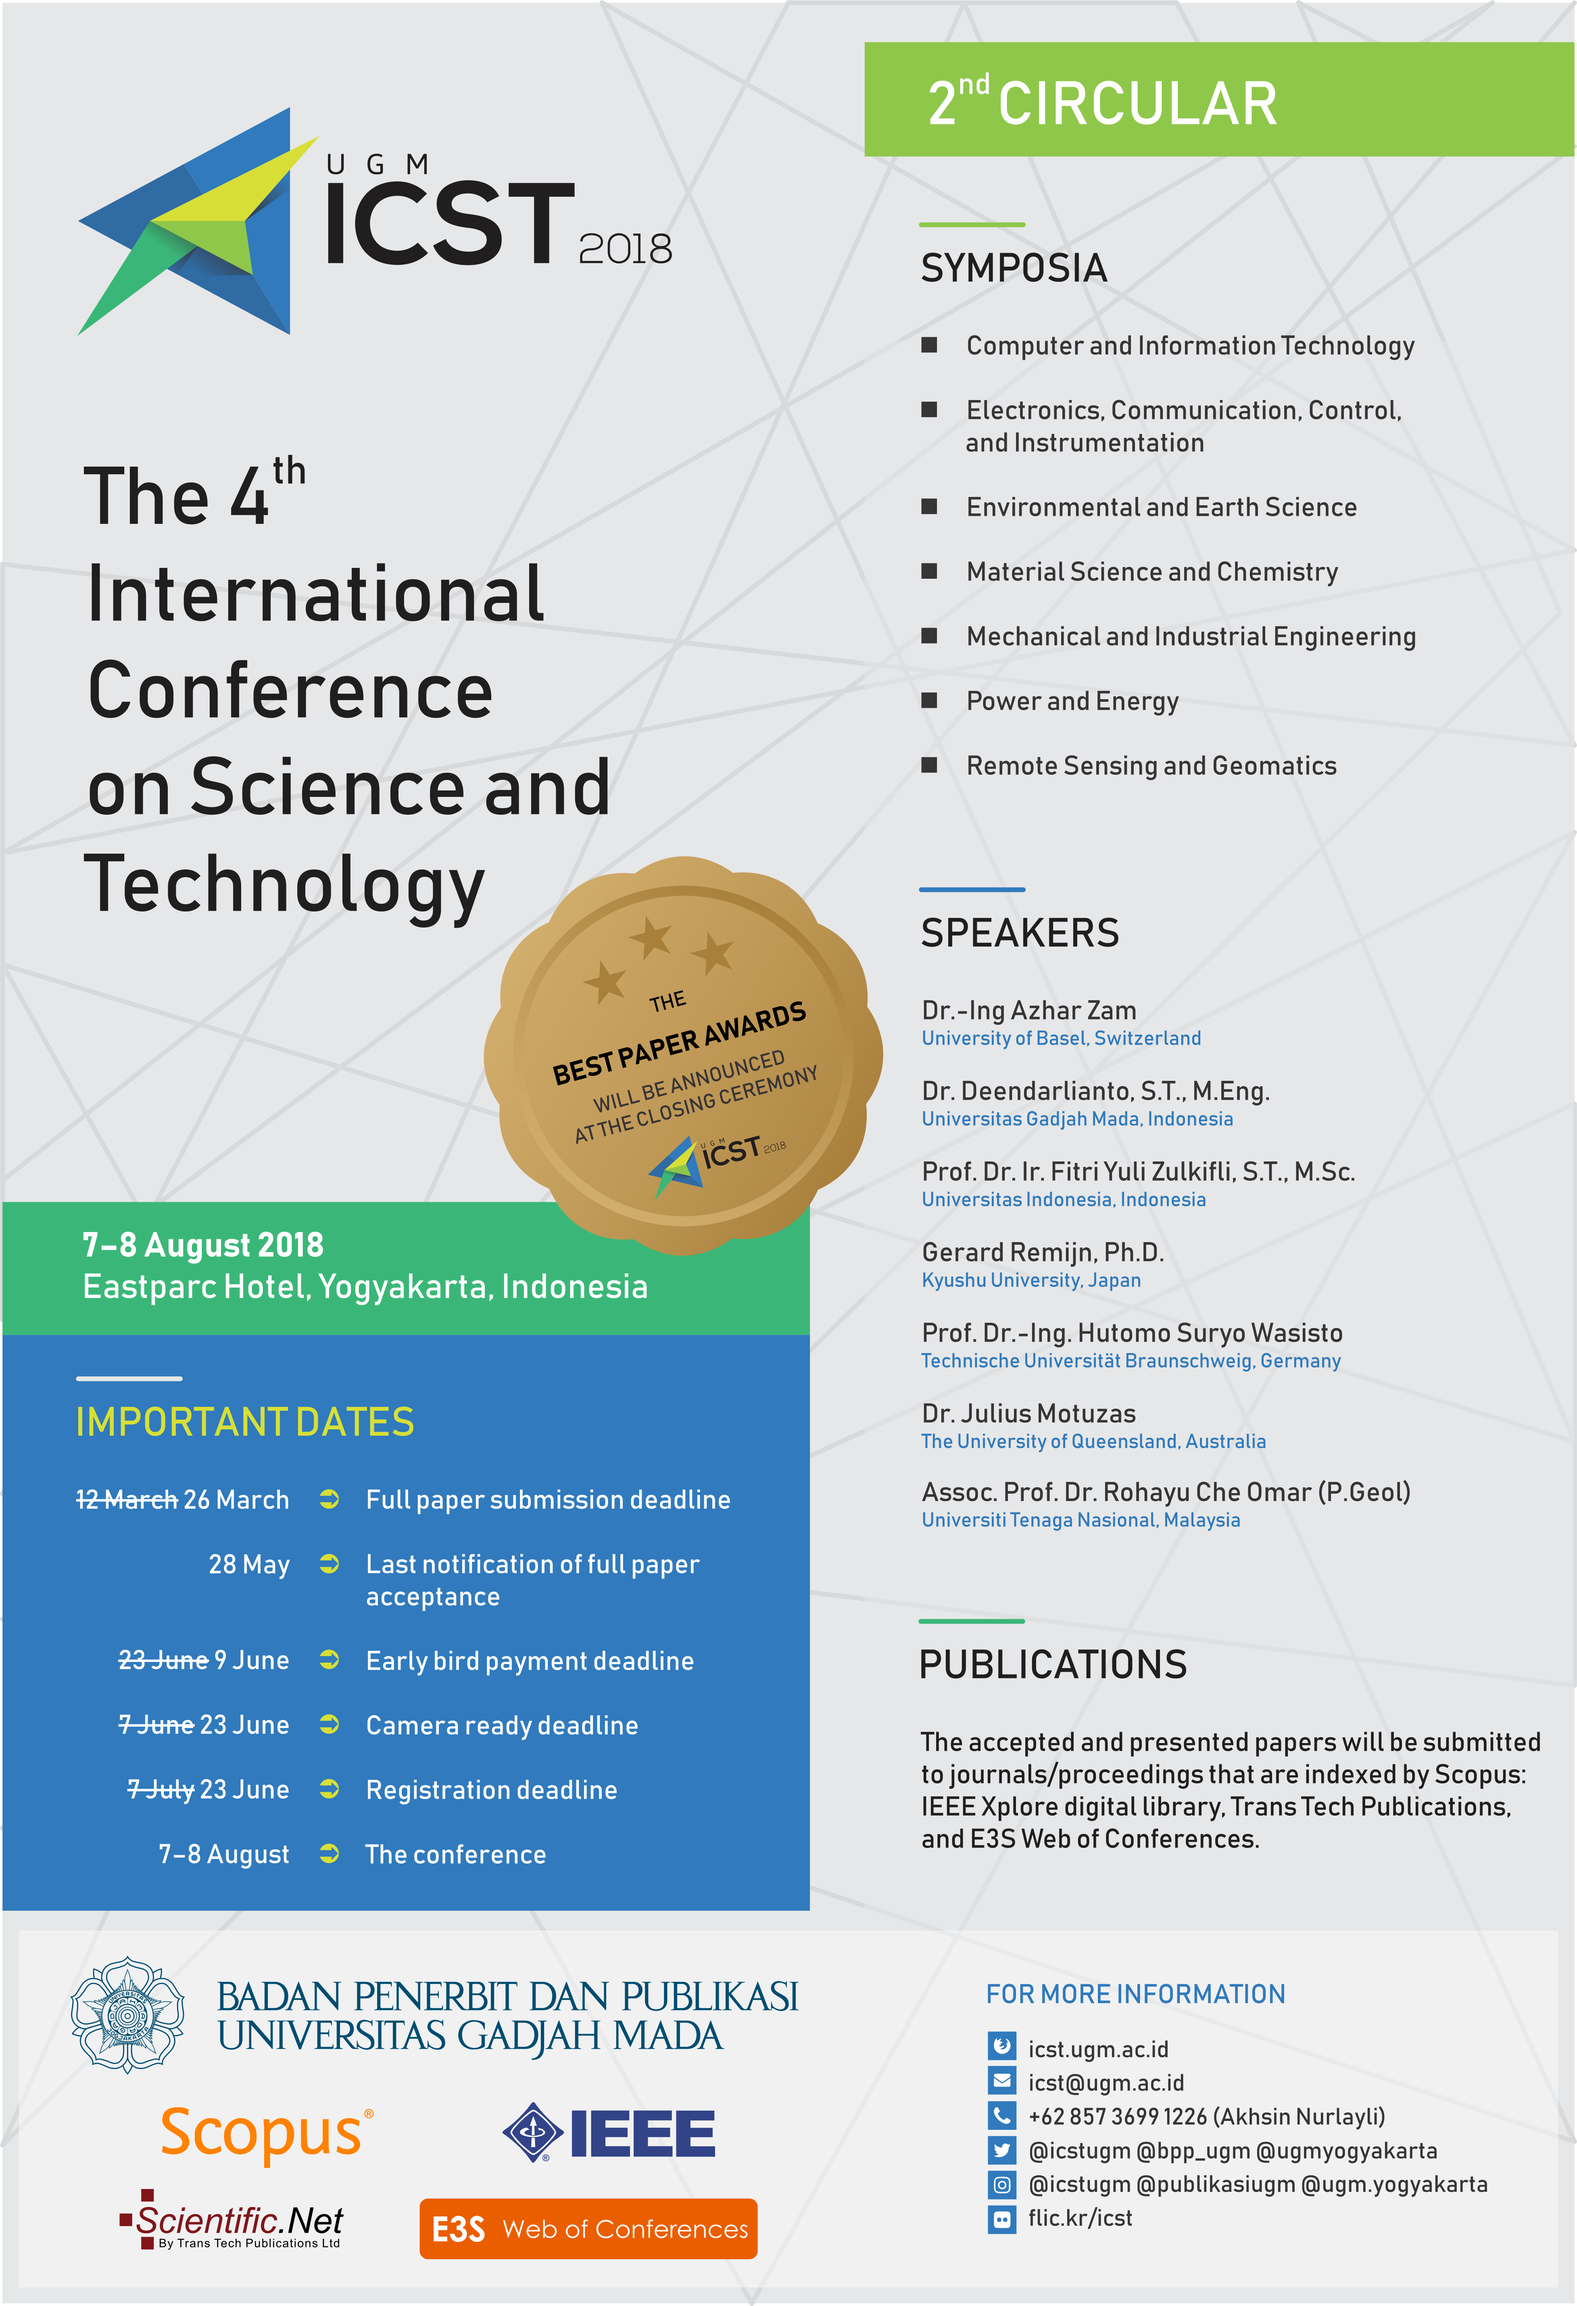
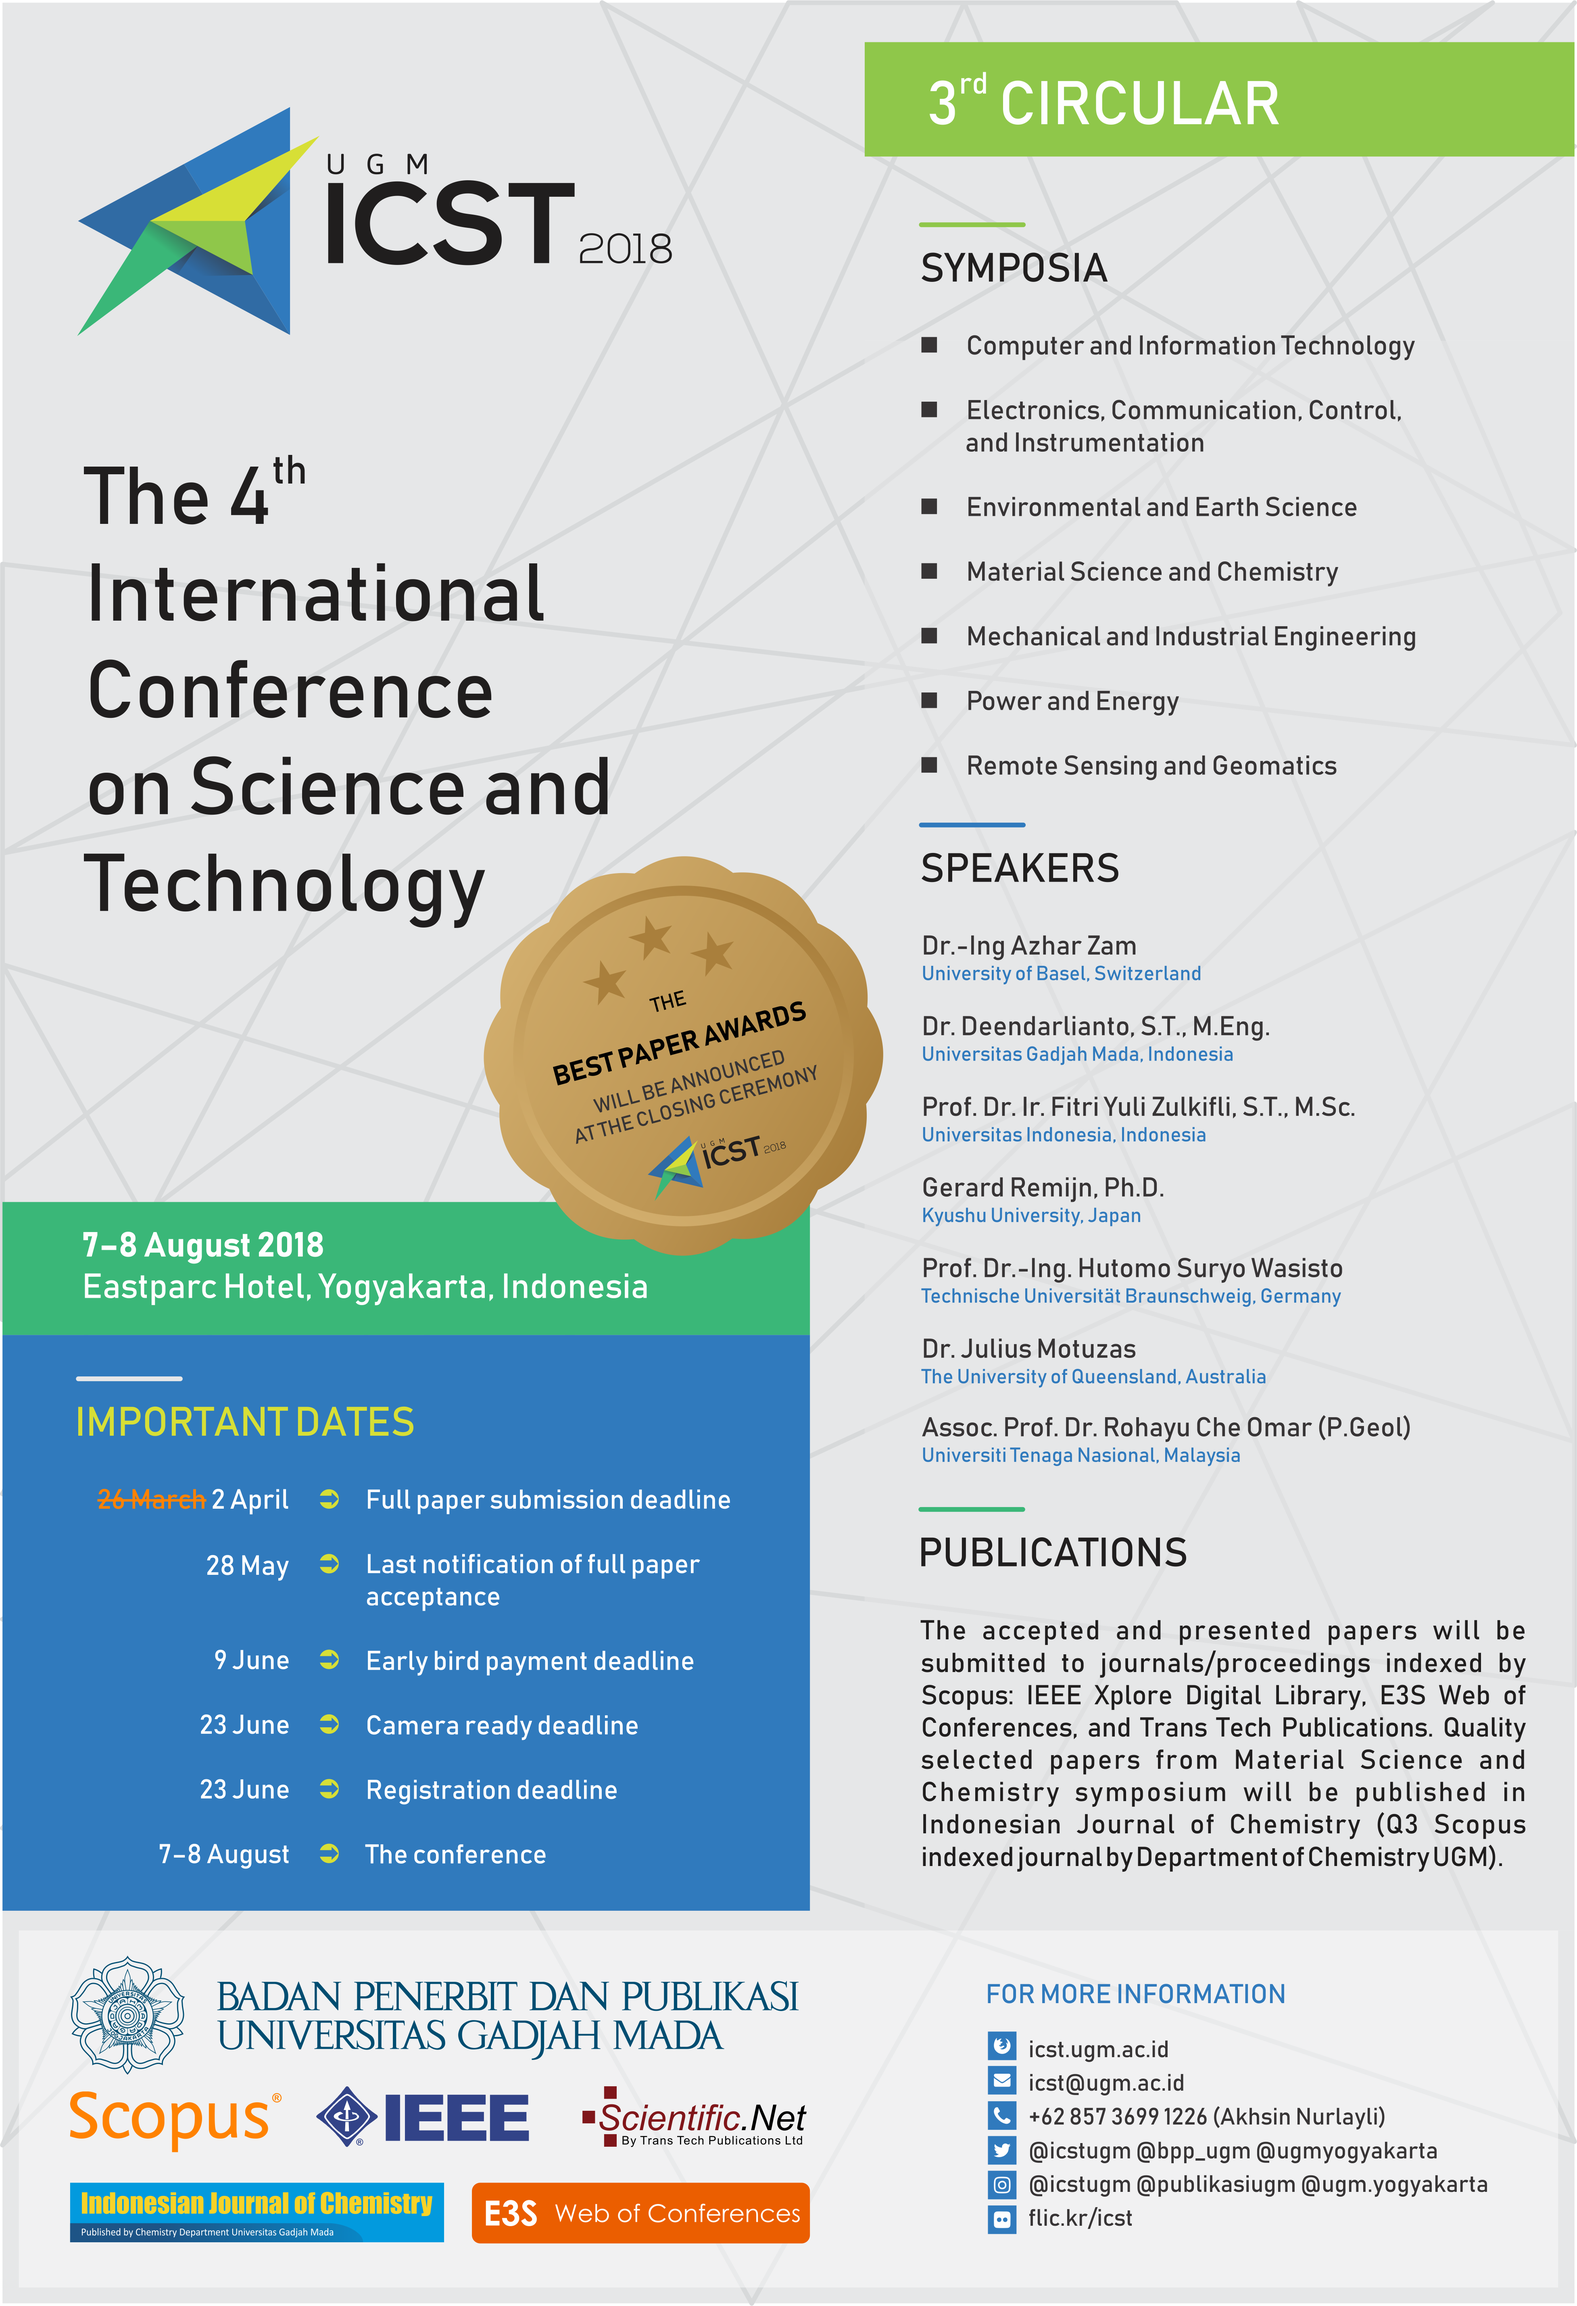
3rd circular revision

diff --git a/index.html b/index.html
@@ -278,7 +278,8 @@
                 </div>
               </div>
               <br>
-              <p align="justify" style="font-size: 1.21rem; font-weight: 300;">The accepted and presented papers will be submitted to journals/proceedings that are indexed by Scopus: IEEE Xplore digital library, Trans Tech Publications, and E3S Web of Conferences.</p>
+              <p align="justify" style="font-size: 1.21rem; font-weight: 300;">The accepted and presented papers will be submitted to journals/proceedings that are indexed by Scopus: IEEE Xplore digital library, Trans Tech Publications, and E3S Web of Conferences.
+              Quality selected papers from Material Science and Chemistry symposium will be published in Indonesian Journal of Chemistry (Q3 Scopus).</p>
             </div>
           </div>
         </div>
@@ -415,11 +416,11 @@
           </div>
         </div>
         <div class="row">
-        <div class="container">
-          <hr class="mx-auto my-3" style="border-color: #e3e3f3; width: 80%;">
-          <p class="text-muted">The International Conference on Science and Technology 2018, organized by <a target="_blank" href="http://publikasi.ugm.ac.id/">BPP UGM</a>. Website developed by <a target="_blank" href="https://github.com/akhsin">Akhsin Nurlayli</a>, <a target="_blank" href="https://github.com/febriyanyoga">Febriyan Yoga</a>, and <a target="_blank" href="https://github.com/sulish">Sulis Setiowati</a>, with contributions from <a target="_blank" href="https://www.linkedin.com/in/wildan-ainurrahman-563948128/">Wildan A</a>, and <a target="_blank" href="https://www.linkedin.com/in/rafieiy/">Rafieiy</a>. UGM and ICST logos © Universitas Gadjah Mada. Website © 2018 Badan Penerbit dan Publikasi UGM under the <a target="_blank" href="https://github.com/bppugm/icst-2018/blob/master/LICENSE.md">MIT License</a>, based on <a target="_blank" href="https://github.com/jaybaeta/icst-2017">ICST 2017 Website</a> by <a target="_blank" href="https://github.com/jaybaeta/">Joaquim Baeta</a>, using <a target="_blank" href="https://v4-alpha.getbootstrap.com">Bootstrap</a> 4.0.0-alpha.6. Website content is licensed under a <a rel="license" target="_blank" href="http://creativecommons.org/licenses/by-sa/4.0/">Creative Commons Attribution-ShareAlike 4.0 International License</a>, except where otherwise noted. Icons by <a target="_blank" href="http://fontawesome.io">Font Awesome</a> (by Dave Gandy; <a target="_blank" href="http://scripts.sil.org/OFL">SIL OFL 1.1</a>; <a target="_blank" href="http://opensource.org/licenses/mit-license.html">MIT</a>), <a target="_blank" href="https://www.iconfinder.com/webalys">Webalys</a> (free for commercial use), <a target="_blank" href="https://www.iconfinder.com/bocatutor">Boca Tutor</a> (<a target="_blank" href="https://creativecommons.org/licenses/by/3.0/">CC BY 3.0</a>), <a target="_blank" href="https://www.iconfinder.com/Sergt">Sergey Toropov</a> (free for commercial use), and Joaquim Baeta (<a target="_blank" href="http://creativecommons.org/licenses/by-sa/4.0/">CC BY-SA 4.0</a>). Jumbotron background by <a target="_blank" href="https://www.linkedin.com/in/rafieiy/">Rafieiy</a> (free for comercial use). Symposia images by <a target="_blank" href="https://www.flickr.com/photos/arselectronica/37525627164/">Ars Electronica / Robert Bauernhansl</a> (<a target="_blank" href="https://creativecommons.org/licenses/by-nc-nd/2.0/">CC BY-NC-ND 2.0</a>), <a target="_blank" href="https://www.flickr.com/photos/jcubic/12237986156/">Jakub Jankiewicz</a> (<a target="_blank" href="https://creativecommons.org/licenses/by-sa/2.0/">CC BY-SA 2.0</a>), <a target="_blank" href="https://www.flickr.com/photos/vil/4464588404/">Vilma</a> (<a target="_blank" href="https://creativecommons.org/licenses/by-nc/2.0/">CC BY-NC 2.0</a>), <a target="_blank" href="https://www.flickr.com/photos/catsanchez/15951257277/">Catface27</a> (<a target="_blank" href="https://creativecommons.org/licenses/by/2.0/">CC BY 2.0</a>), <a target="_blank" href="https://www.flickr.com/photos/amagill/3268315787/">Andrew Magill</a> (<a target="_blank" href="https://creativecommons.org/licenses/by/2.0/">CC BY 2.0</a>), <a target="_blank" href="https://www.flickr.com/photos/napdsp/4991007667/">Nate2b</a> (<a target="_blank" href="https://creativecommons.org/licenses/by-nc-nd/2.0/">CC BY-NC-ND 2.0</a>), and <a target="_blank" href="https://www.flickr.com/photos/nasamarshall/25096846628/">NASA's Marshall Space Flight Center</a> (<a target="_blank" href="https://creativecommons.org/licenses/by-nc/2.0/">CC BY-NC 2.0</a>)</p>
+          <div class="container">
+            <hr class="mx-auto my-3" style="border-color: #e3e3f3; width: 80%;">
+            <p class="text-muted">The International Conference on Science and Technology 2018, organized by <a target="_blank" href="http://publikasi.ugm.ac.id/">BPP UGM</a>. Website developed by <a target="_blank" href="https://github.com/akhsin">Akhsin Nurlayli</a>, <a target="_blank" href="https://github.com/febriyanyoga">Febriyan Yoga</a>, and <a target="_blank" href="https://github.com/sulish">Sulis Setiowati</a>, with contributions from <a target="_blank" href="https://www.linkedin.com/in/wildan-ainurrahman-563948128/">Wildan A</a>, and <a target="_blank" href="https://www.linkedin.com/in/rafieiy/">Rafieiy</a>. UGM and ICST logos © Universitas Gadjah Mada. Website © 2018 Badan Penerbit dan Publikasi UGM under the <a target="_blank" href="https://github.com/bppugm/icst-2018/blob/master/LICENSE.md">MIT License</a>, based on <a target="_blank" href="https://github.com/jaybaeta/icst-2017">ICST 2017 Website</a> by <a target="_blank" href="https://github.com/jaybaeta/">Joaquim Baeta</a>, using <a target="_blank" href="https://v4-alpha.getbootstrap.com">Bootstrap</a> 4.0.0-alpha.6. Website content is licensed under a <a rel="license" target="_blank" href="http://creativecommons.org/licenses/by-sa/4.0/">Creative Commons Attribution-ShareAlike 4.0 International License</a>, except where otherwise noted. Icons by <a target="_blank" href="http://fontawesome.io">Font Awesome</a> (by Dave Gandy; <a target="_blank" href="http://scripts.sil.org/OFL">SIL OFL 1.1</a>; <a target="_blank" href="http://opensource.org/licenses/mit-license.html">MIT</a>), <a target="_blank" href="https://www.iconfinder.com/webalys">Webalys</a> (free for commercial use), <a target="_blank" href="https://www.iconfinder.com/bocatutor">Boca Tutor</a> (<a target="_blank" href="https://creativecommons.org/licenses/by/3.0/">CC BY 3.0</a>), <a target="_blank" href="https://www.iconfinder.com/Sergt">Sergey Toropov</a> (free for commercial use), and Joaquim Baeta (<a target="_blank" href="http://creativecommons.org/licenses/by-sa/4.0/">CC BY-SA 4.0</a>). Jumbotron background by <a target="_blank" href="https://www.linkedin.com/in/rafieiy/">Rafieiy</a> (free for comercial use). Symposia images by <a target="_blank" href="https://www.flickr.com/photos/arselectronica/37525627164/">Ars Electronica / Robert Bauernhansl</a> (<a target="_blank" href="https://creativecommons.org/licenses/by-nc-nd/2.0/">CC BY-NC-ND 2.0</a>), <a target="_blank" href="https://www.flickr.com/photos/jcubic/12237986156/">Jakub Jankiewicz</a> (<a target="_blank" href="https://creativecommons.org/licenses/by-sa/2.0/">CC BY-SA 2.0</a>), <a target="_blank" href="https://www.flickr.com/photos/vil/4464588404/">Vilma</a> (<a target="_blank" href="https://creativecommons.org/licenses/by-nc/2.0/">CC BY-NC 2.0</a>), <a target="_blank" href="https://www.flickr.com/photos/catsanchez/15951257277/">Catface27</a> (<a target="_blank" href="https://creativecommons.org/licenses/by/2.0/">CC BY 2.0</a>), <a target="_blank" href="https://www.flickr.com/photos/amagill/3268315787/">Andrew Magill</a> (<a target="_blank" href="https://creativecommons.org/licenses/by/2.0/">CC BY 2.0</a>), <a target="_blank" href="https://www.flickr.com/photos/napdsp/4991007667/">Nate2b</a> (<a target="_blank" href="https://creativecommons.org/licenses/by-nc-nd/2.0/">CC BY-NC-ND 2.0</a>), and <a target="_blank" href="https://www.flickr.com/photos/nasamarshall/25096846628/">NASA's Marshall Space Flight Center</a> (<a target="_blank" href="https://creativecommons.org/licenses/by-nc/2.0/">CC BY-NC 2.0</a>)</p>
+          </div>
         </div>
-      </div>
       </div>
     </footer>
   </body>

diff --git a/article/material-science-and-chemistry.html b/article/material-science-and-chemistry.html
@@ -172,7 +172,7 @@
           
           <!-- PUBLICATION -->
           <h2>Publication</h2>
-          <p>The accepted and presented papers will be published in the proceedings of Scientific.Net by TransTech Publication</p>
+          <p>The accepted and presented papers will be published in the proceedings of Scientific.Net by TransTech Publication. Quality selected papers will be published in Indonesian Journal of Chemistry (Q3 Scopus).</p>
           <p>If you want to submit paper, please follow this <a href="author-guidelines.html"> Guidelines </a> and click <code><a href="submissions.html">Register</a></code> button.</p>
 
           <!--COMMITTEE-->
